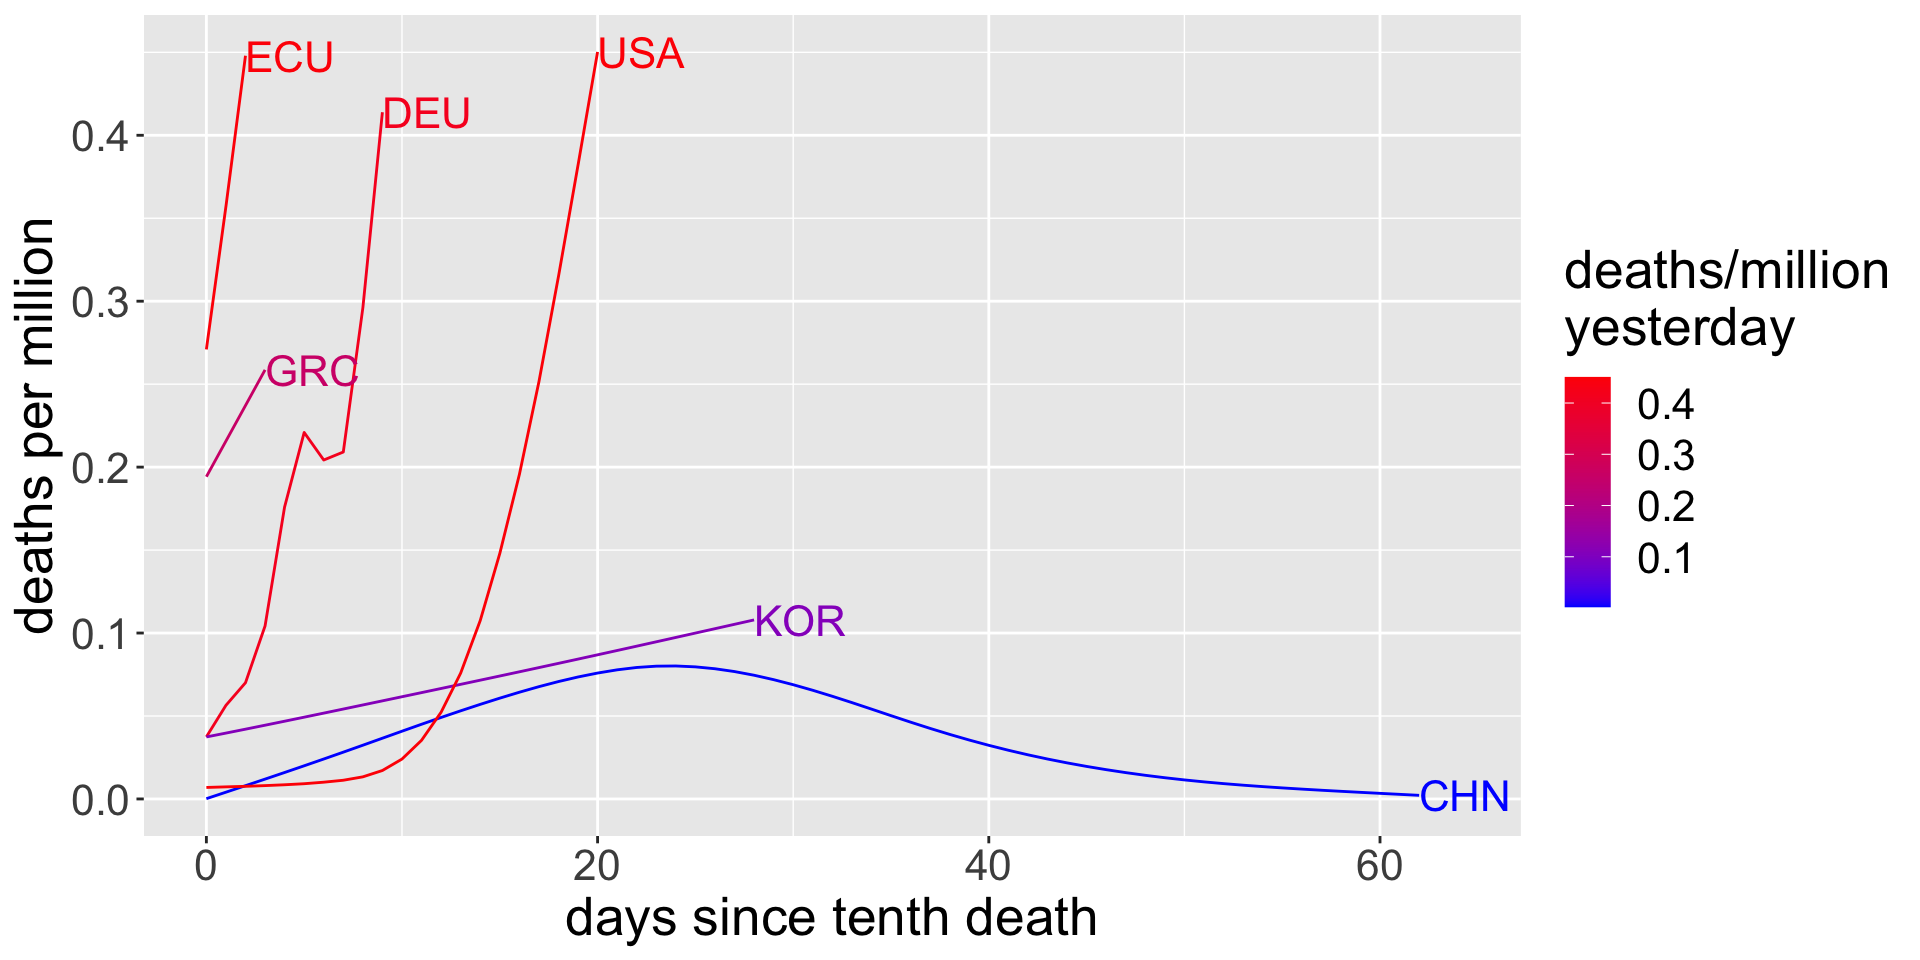
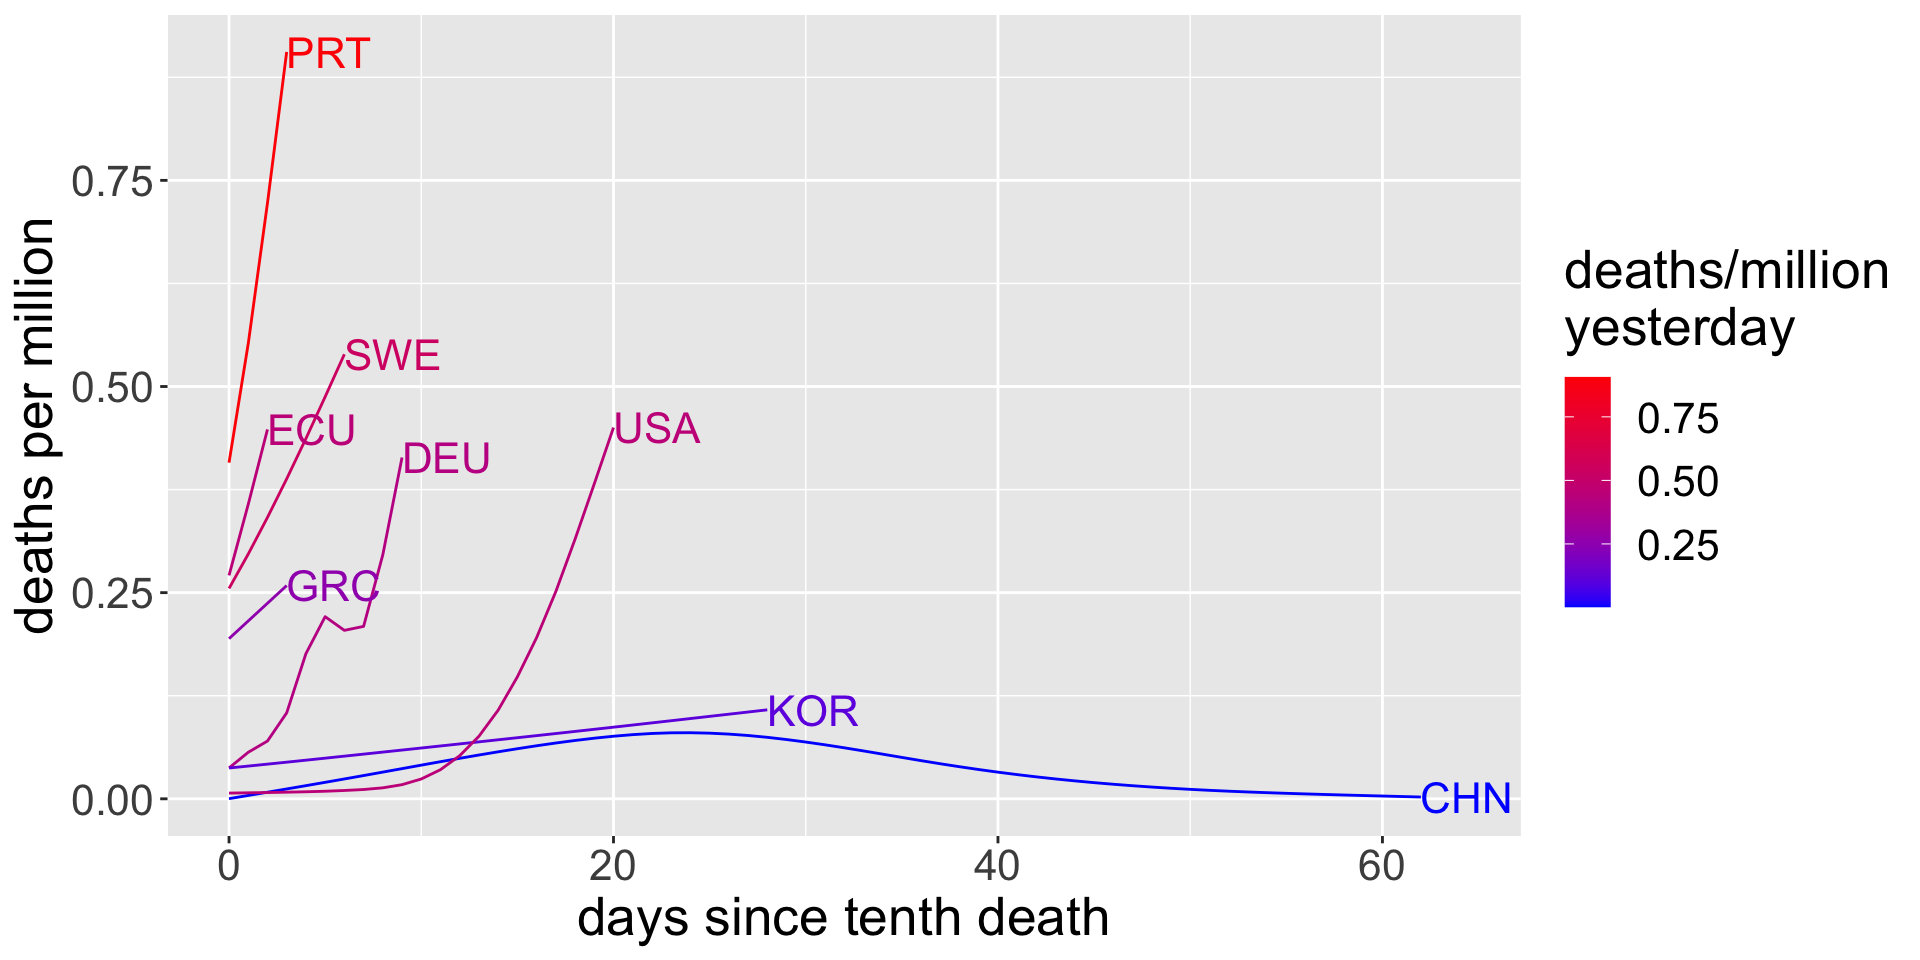
Update commentary.

diff --git a/public/2020/03/25/covid19deathspercapita/index.html b/public/2020/03/25/covid19deathspercapita/index.html
@@ -241,7 +241,7 @@
   
   <span class="middot-divider"></span>
   <span class="article-reading-time">
-    7 min read
+    8 min read
   </span>
   
 
@@ -319,6 +319,10 @@
 <p>First of all, we should be using per capita statistics. For example, 100,000 cases in China vs 100,000 cases in Ireland would be very different things, because of what they imply for concentration of cases. Per capita (assuming a billion people in China and 5 million in Ireland), this would mean 1% of people in Ireland have the disease compared to 0.01% of people in China: 1 in 100 vs 1 in 10,000. Of course, just using per capita by country, you miss a lot too. A particularly high concentration of cases in Wuhan is not the same as a more even spread of cases throughout China. You can fix this by dividing by province or county (if you have that level of granularity in your data); I do this by state for the US. I’m going to use per million people instead of per capita, because it’s a bit easier to think about.</p>
 <p>Second, reported deaths from the virus are more reliable than confirmed cases. That’s because the more ill you are, the more likely you are to get a test. The number of people <em>reported</em> to have died of COVID-19 infection will be closer to the true number of people who died of COVID-19 than the number of people <em>reported</em> to be infected will be to the true number of infected individuals.</p>
 <p>For timelining, I’ll use days since the tenth confirmed death from COVID-19 in a particular country, just like the <em>Financial Times</em> article.</p>
+<div id="deaths-per-capita-will-lag-other-measures" class="section level2">
+<h2>Deaths per capita will lag other measures</h2>
+<p>I don’t mean to say that deaths per capita is the only useful thing. It actually lags other measures (in particular the number of infected individuals) by a few days because the disease does not kill quickly. In particular, if a countries rate of testing is steady or increasing but the absolute number of people testing positive per day is decreasing, that’s a great sign and a sign that you’ll see sooner than a drop in deaths.</p>
+</div>
 </div>
 <div id="data-source-preparation-and-limitations" class="section level1">
 <h1>Data source, preparation and limitations</h1>
@@ -338,23 +342,24 @@
 <li>We can see that <strong>Spain</strong> and <strong>Italy</strong> are in a really bad way and still showing exponential growth in the number of deaths. This does not bode well for them. Spain looks to be in worse shape than Italy. 17 days after its tenth death, it’s up to 11 deaths per million that day, whereas Italy was on 4 deaths per million on its equivalent day. I am very, very worried about Spain.</li>
 <li><strong>The Netherlands</strong> curve suggests it won’t be as bad as Spain but might be as bad as Italy, though they have time to flatten it before their health system becomes overwhelmed.</li>
 </ul>
-<p>The other countries are a bit bunched, so next I’ll limit the plot to countries with fewer than 3 deaths per million yesterday.</p>
+<p>The other countries are a bit bunched, so next I’ll limit the plot to countries with fewer than 5 deaths per million yesterday.</p>
 </div>
-<div id="countries-with-fewer-than-3-deaths-per-million-yesterday" class="section level2">
-<h2>Countries with fewer than 3 deaths per million yesterday</h2>
-<p><img src="/post/2020-03-21-covid19deaths_files/figure-html/lt3-deaths-per-mil-1.png" width="960" /></p>
+<div id="countries-with-fewer-than-5-deaths-per-million-yesterday" class="section level2">
+<h2>Countries with fewer than 5 deaths per million yesterday</h2>
+<p><img src="/post/2020-03-21-covid19deaths_files/figure-html/lt5-deaths-per-mil-1.png" width="960" /></p>
 <ul>
-<li><strong>Belgium</strong> and <strong>The Netherlands</strong> are growing at alarming rates and are currently near or above 2 deaths per million per day. They would be doing well not to breach 10 deaths per million per day soon.</li>
-<li>Interestingly, <strong>France</strong> and <strong>Iran</strong> look to be turning the corner and lowering their fatalities. We’ll need another week of data to see if they can sustain this.</li>
+<li><strong>Belgium</strong> and <strong>The Netherlands</strong> are growing at alarming rates and are currently heading for 3 deaths per million per day. They would be doing well not to breach 10 deaths per million per day soon.</li>
+<li><strong>France</strong>’s data is weirdly oscillating but they are currently showing a stark increase in deaths per million per day.</li>
+<li>Interestingly, <strong>Iran</strong> look to be turning the corner and lowering their fatalities. We’ll need another week of data to see if they can sustain this.</li>
 <li><strong>Great Britain</strong> looks to be faring better than Belgium and The Netherlands, but could yet end up worse than Iran.</li>
 </ul>
 </div>
-<div id="countries-with-less-than-0.5-deaths-per-million-yesterday" class="section level2">
-<h2>Countries with less than 0.5 deaths per million yesterday</h2>
+<div id="countries-with-less-than-1-death-per-million-yesterday" class="section level2">
+<h2>Countries with less than 1 death per million yesterday</h2>
 <p><img src="/post/2020-03-21-covid19deaths_files/figure-html/lt1-death-per-mil-1.png" width="960" /></p>
 <ul>
-<li>For <strong>Portugal</strong>, <strong>Sweden</strong> and <strong>Greece</strong>, it’s too early to tell, though the upward trajectories are cause for great concern.</li>
-<li><strong>Germany</strong> appears to be tackling the disease early and very well. They have more hospital beds per capita than any other country in the world, so kudos to them and I hope their success continues.</li>
+<li>For <strong>Ecuador</strong>, <strong>Portugal</strong>, <strong>Sweden</strong> and <strong>Greece</strong>, it’s too early to tell, though the upward trajectories are cause for great concern.</li>
+<li><strong>Germany</strong> appeared to be tackling the disease well earlier in the week, but their deaths are increasing again now.</li>
 <li>The <strong>USA</strong> curve looks pretty ominous here. They have 3 main states (California, New York and Washington) driving most of their cases and deaths. See below for a breakdown of the US by states.</li>
 <li><strong>China</strong> is the only country which can definitively be said to have beaten their outbreak. They deserve enormous credit for their (post cover-up) response, and a lot can be learned from what they did. Of course, the number of cases there could rise again, but they know what to do if that happens.</li>
 <li><strong>South Korea</strong> has managed to keep its death numbers in a linear regime (growing at constant number of people dying every day) or perhaps slightly better. This is also a great achievement, given how nearly every other country is displaying exponential growth. Still, they need to improve further. More people died there yesterday than the day before; that needs to change.</li>
@@ -366,10 +371,10 @@
 <p>I’m going to use the same limitations for the US state data except that I’ll allow populations over 7.5 million, so that we can see Washington state.</p>
 <p><img src="/post/2020-03-21-covid19deaths_files/figure-html/us-plot-1.png" width="960" /></p>
 <ul>
-<li>For <strong>Ohio</strong>, <strong>Virginia</strong> and <strong>Michigan</strong>, it’s too early to say.</li>
+<li>For <strong>Ohio</strong>, <strong>Virginia</strong>, <strong>Pennsylvania</strong> and <strong>Michigan</strong>, it’s too early to say.</li>
 <li><strong>Washington</strong> state is at 14 deaths per million 13 days after its tenth death. At this point, Spain was at 6 deaths per million. This is absolutely dire. One bright light for Washington is that they have avoided exponential growth in the death rate, but the linear growth they have is still a massive problem.</li>
-<li><strong>New York</strong> is at 10 deaths per million 8 days after its tenth death. At this point, Spain was at 2 deaths per million. New York looks like it will get worse than Washington.</li>
-<li><strong>New York</strong> is at 5 deaths per million 7 days after its tenth death; better than New York but not good at all. At this point, Spain was at 1 deaths per million.</li>
+<li><strong>New York</strong> is at 10 deaths per million 8 days after its tenth death. At this point, Spain was at 2 deaths per million. New York looks like it will get much worse than Washington.</li>
+<li><strong>New Jersey</strong> is at 5 deaths per million 7 days after its tenth death; better than New York but not good at all. At this point, Spain was at 1 deaths per million.</li>
 <li><strong>Georgia</strong> and <strong>Illinois</strong> are near where New York was at equivalent stages, but with flatter trajectories. But New York is a low bar. To be barely better than New York is to be headed for disaster.</li>
 <li>10 days after its tenth death, <strong>California</strong> is at approximately 10 deaths per million. This is similar to where Italy was at this stage, but California’s curve is flatter than Italy’s, so they are on course to avoid the explosion in cases that happened there.</li>
 <li><strong>Texas</strong> and <strong>Florida</strong> look very like California with a few days’ lag.</li>

diff --git a/content/post/2020-03-21-covid19deaths.html b/content/post/2020-03-21-covid19deaths.html
@@ -20,6 +20,10 @@ tags: ["COVID-19", "coronavirus"]
 <p>First of all, we should be using per capita statistics. For example, 100,000 cases in China vs 100,000 cases in Ireland would be very different things, because of what they imply for concentration of cases. Per capita (assuming a billion people in China and 5 million in Ireland), this would mean 1% of people in Ireland have the disease compared to 0.01% of people in China: 1 in 100 vs 1 in 10,000. Of course, just using per capita by country, you miss a lot too. A particularly high concentration of cases in Wuhan is not the same as a more even spread of cases throughout China. You can fix this by dividing by province or county (if you have that level of granularity in your data); I do this by state for the US. I’m going to use per million people instead of per capita, because it’s a bit easier to think about.</p>
 <p>Second, reported deaths from the virus are more reliable than confirmed cases. That’s because the more ill you are, the more likely you are to get a test. The number of people <em>reported</em> to have died of COVID-19 infection will be closer to the true number of people who died of COVID-19 than the number of people <em>reported</em> to be infected will be to the true number of infected individuals.</p>
 <p>For timelining, I’ll use days since the tenth confirmed death from COVID-19 in a particular country, just like the <em>Financial Times</em> article.</p>
+<div id="deaths-per-capita-will-lag-other-measures" class="section level2">
+<h2>Deaths per capita will lag other measures</h2>
+<p>I don’t mean to say that deaths per capita is the only useful thing. It actually lags other measures (in particular the number of infected individuals) by a few days because the disease does not kill quickly. In particular, if a countries rate of testing is steady or increasing but the absolute number of people testing positive per day is decreasing, that’s a great sign and a sign that you’ll see sooner than a drop in deaths.</p>
+</div>
 </div>
 <div id="data-source-preparation-and-limitations" class="section level1">
 <h1>Data source, preparation and limitations</h1>
@@ -39,23 +43,24 @@ tags: ["COVID-19", "coronavirus"]
 <li>We can see that <strong>Spain</strong> and <strong>Italy</strong> are in a really bad way and still showing exponential growth in the number of deaths. This does not bode well for them. Spain looks to be in worse shape than Italy. 17 days after its tenth death, it’s up to 11 deaths per million that day, whereas Italy was on 4 deaths per million on its equivalent day. I am very, very worried about Spain.</li>
 <li><strong>The Netherlands</strong> curve suggests it won’t be as bad as Spain but might be as bad as Italy, though they have time to flatten it before their health system becomes overwhelmed.</li>
 </ul>
-<p>The other countries are a bit bunched, so next I’ll limit the plot to countries with fewer than 3 deaths per million yesterday.</p>
+<p>The other countries are a bit bunched, so next I’ll limit the plot to countries with fewer than 5 deaths per million yesterday.</p>
 </div>
-<div id="countries-with-fewer-than-3-deaths-per-million-yesterday" class="section level2">
-<h2>Countries with fewer than 3 deaths per million yesterday</h2>
-<p><img src="/post/2020-03-21-covid19deaths_files/figure-html/lt3-deaths-per-mil-1.png" width="960" /></p>
+<div id="countries-with-fewer-than-5-deaths-per-million-yesterday" class="section level2">
+<h2>Countries with fewer than 5 deaths per million yesterday</h2>
+<p><img src="/post/2020-03-21-covid19deaths_files/figure-html/lt5-deaths-per-mil-1.png" width="960" /></p>
 <ul>
-<li><strong>Belgium</strong> and <strong>The Netherlands</strong> are growing at alarming rates and are currently near or above 2 deaths per million per day. They would be doing well not to breach 10 deaths per million per day soon.</li>
-<li>Interestingly, <strong>France</strong> and <strong>Iran</strong> look to be turning the corner and lowering their fatalities. We’ll need another week of data to see if they can sustain this.</li>
+<li><strong>Belgium</strong> and <strong>The Netherlands</strong> are growing at alarming rates and are currently heading for 3 deaths per million per day. They would be doing well not to breach 10 deaths per million per day soon.</li>
+<li><strong>France</strong>’s data is weirdly oscillating but they are currently showing a stark increase in deaths per million per day.</li>
+<li>Interestingly, <strong>Iran</strong> look to be turning the corner and lowering their fatalities. We’ll need another week of data to see if they can sustain this.</li>
 <li><strong>Great Britain</strong> looks to be faring better than Belgium and The Netherlands, but could yet end up worse than Iran.</li>
 </ul>
 </div>
-<div id="countries-with-less-than-0.5-deaths-per-million-yesterday" class="section level2">
-<h2>Countries with less than 0.5 deaths per million yesterday</h2>
+<div id="countries-with-less-than-1-death-per-million-yesterday" class="section level2">
+<h2>Countries with less than 1 death per million yesterday</h2>
 <p><img src="/post/2020-03-21-covid19deaths_files/figure-html/lt1-death-per-mil-1.png" width="960" /></p>
 <ul>
-<li>For <strong>Portugal</strong>, <strong>Sweden</strong> and <strong>Greece</strong>, it’s too early to tell, though the upward trajectories are cause for great concern.</li>
-<li><strong>Germany</strong> appears to be tackling the disease early and very well. They have more hospital beds per capita than any other country in the world, so kudos to them and I hope their success continues.</li>
+<li>For <strong>Ecuador</strong>, <strong>Portugal</strong>, <strong>Sweden</strong> and <strong>Greece</strong>, it’s too early to tell, though the upward trajectories are cause for great concern.</li>
+<li><strong>Germany</strong> appeared to be tackling the disease well earlier in the week, but their deaths are increasing again now.</li>
 <li>The <strong>USA</strong> curve looks pretty ominous here. They have 3 main states (California, New York and Washington) driving most of their cases and deaths. See below for a breakdown of the US by states.</li>
 <li><strong>China</strong> is the only country which can definitively be said to have beaten their outbreak. They deserve enormous credit for their (post cover-up) response, and a lot can be learned from what they did. Of course, the number of cases there could rise again, but they know what to do if that happens.</li>
 <li><strong>South Korea</strong> has managed to keep its death numbers in a linear regime (growing at constant number of people dying every day) or perhaps slightly better. This is also a great achievement, given how nearly every other country is displaying exponential growth. Still, they need to improve further. More people died there yesterday than the day before; that needs to change.</li>
@@ -67,10 +72,10 @@ tags: ["COVID-19", "coronavirus"]
 <p>I’m going to use the same limitations for the US state data except that I’ll allow populations over 7.5 million, so that we can see Washington state.</p>
 <p><img src="/post/2020-03-21-covid19deaths_files/figure-html/us-plot-1.png" width="960" /></p>
 <ul>
-<li>For <strong>Ohio</strong>, <strong>Virginia</strong> and <strong>Michigan</strong>, it’s too early to say.</li>
+<li>For <strong>Ohio</strong>, <strong>Virginia</strong>, <strong>Pennsylvania</strong> and <strong>Michigan</strong>, it’s too early to say.</li>
 <li><strong>Washington</strong> state is at 14 deaths per million 13 days after its tenth death. At this point, Spain was at 6 deaths per million. This is absolutely dire. One bright light for Washington is that they have avoided exponential growth in the death rate, but the linear growth they have is still a massive problem.</li>
-<li><strong>New York</strong> is at 10 deaths per million 8 days after its tenth death. At this point, Spain was at 2 deaths per million. New York looks like it will get worse than Washington.</li>
-<li><strong>New York</strong> is at 5 deaths per million 7 days after its tenth death; better than New York but not good at all. At this point, Spain was at 1 deaths per million.</li>
+<li><strong>New York</strong> is at 10 deaths per million 8 days after its tenth death. At this point, Spain was at 2 deaths per million. New York looks like it will get much worse than Washington.</li>
+<li><strong>New Jersey</strong> is at 5 deaths per million 7 days after its tenth death; better than New York but not good at all. At this point, Spain was at 1 deaths per million.</li>
 <li><strong>Georgia</strong> and <strong>Illinois</strong> are near where New York was at equivalent stages, but with flatter trajectories. But New York is a low bar. To be barely better than New York is to be headed for disaster.</li>
 <li>10 days after its tenth death, <strong>California</strong> is at approximately 10 deaths per million. This is similar to where Italy was at this stage, but California’s curve is flatter than Italy’s, so they are on course to avoid the explosion in cases that happened there.</li>
 <li><strong>Texas</strong> and <strong>Florida</strong> look very like California with a few days’ lag.</li>

diff --git a/public/2018/09/30/rcsetseed/index.html b/public/2018/09/30/rcsetseed/index.html
@@ -332,7 +332,7 @@ rbernoulli(5, 0.7)
 #&gt; {
 #&gt;     stats::runif(n) &gt; (1 - p)
 #&gt; }
-#&gt; &lt;bytecode: 0x7ffa488c8a90&gt;
+#&gt; &lt;bytecode: 0x7fadd6243890&gt;
 #&gt; &lt;environment: namespace:purrr&gt;</code></pre>
 <p>Ah, it seems Hadley just wrapped <code>runif()</code>; hence, because <code>set.seed()</code> works with <code>runif()</code>, it works with his implementation of <code>purrr::rbernoulli()</code>.</p>
 </div>
@@ -405,8 +405,8 @@ rorybernoulli(6, 0.7)
 #&gt; # A tibble: 2 x 6
 #&gt;   expression                            min  median `itr/sec` mem_alloc `gc/sec`
 #&gt;   &lt;bch:expr&gt;                        &lt;bch:t&gt; &lt;bch:t&gt;     &lt;dbl&gt; &lt;bch:byt&gt;    &lt;dbl&gt;
-#&gt; 1 purrr::rbernoulli(1e+06, p = 0.5) 27.02ms 27.92ms      34.5   11.45MB    10.6 
-#&gt; 2 rorybernoulli(1e+06, p = 0.5)      8.41ms  8.86ms     110.     3.82MB     9.00</code></pre>
+#&gt; 1 purrr::rbernoulli(1e+06, p = 0.5) 26.65ms  27.4ms      35.5   11.45MB    10.1 
+#&gt; 2 rorybernoulli(1e+06, p = 0.5)      8.41ms  8.67ms     112.     3.82MB     8.97</code></pre>
 <p>Wow, <code>rorybernoulli()</code> is three times faster! I wasn’t expecting that. Perhaps it’s because there’s a quicker way of generating a Bernoulli random number than by going through a uniform random number (as <code>purrr::rbernoulli()</code> does). It’s also three times as efficient with memory; the memory and time improvements probably have the same underlying reason. The point of me writing this post was to share this <code>get_seed()</code> thing with people so that they can use <code>set.seed()</code> with <code>Rcpp</code> and the like; <code>purrr::rbernoulli()</code> was just a cool example of a non-base RNG that popped into my head. Maybe I should submit a pull request to <code>purrr</code>!</p>
 </div>
 

diff --git a/content/post/2018-09-30-rcsetseed.html b/content/post/2018-09-30-rcsetseed.html
@@ -26,7 +26,7 @@ rbernoulli(5, 0.7)
 #&gt; {
 #&gt;     stats::runif(n) &gt; (1 - p)
 #&gt; }
-#&gt; &lt;bytecode: 0x7ffa488c8a90&gt;
+#&gt; &lt;bytecode: 0x7fadd6243890&gt;
 #&gt; &lt;environment: namespace:purrr&gt;</code></pre>
 <p>Ah, it seems Hadley just wrapped <code>runif()</code>; hence, because <code>set.seed()</code> works with <code>runif()</code>, it works with his implementation of <code>purrr::rbernoulli()</code>.</p>
 </div>
@@ -99,7 +99,7 @@ rorybernoulli(6, 0.7)
 #&gt; # A tibble: 2 x 6
 #&gt;   expression                            min  median `itr/sec` mem_alloc `gc/sec`
 #&gt;   &lt;bch:expr&gt;                        &lt;bch:t&gt; &lt;bch:t&gt;     &lt;dbl&gt; &lt;bch:byt&gt;    &lt;dbl&gt;
-#&gt; 1 purrr::rbernoulli(1e+06, p = 0.5) 27.02ms 27.92ms      34.5   11.45MB    10.6 
-#&gt; 2 rorybernoulli(1e+06, p = 0.5)      8.41ms  8.86ms     110.     3.82MB     9.00</code></pre>
+#&gt; 1 purrr::rbernoulli(1e+06, p = 0.5) 26.65ms  27.4ms      35.5   11.45MB    10.1 
+#&gt; 2 rorybernoulli(1e+06, p = 0.5)      8.41ms  8.67ms     112.     3.82MB     8.97</code></pre>
 <p>Wow, <code>rorybernoulli()</code> is three times faster! I wasn’t expecting that. Perhaps it’s because there’s a quicker way of generating a Bernoulli random number than by going through a uniform random number (as <code>purrr::rbernoulli()</code> does). It’s also three times as efficient with memory; the memory and time improvements probably have the same underlying reason. The point of me writing this post was to share this <code>get_seed()</code> thing with people so that they can use <code>set.seed()</code> with <code>Rcpp</code> and the like; <code>purrr::rbernoulli()</code> was just a cool example of a non-base RNG that popped into my head. Maybe I should submit a pull request to <code>purrr</code>!</p>
 </div>

diff --git a/public/index.html b/public/index.html
@@ -487,7 +487,7 @@ Statistician.</p>
   
   <span class="middot-divider"></span>
   <span class="article-reading-time">
-    7 min read
+    8 min read
   </span>
   
 

diff --git a/public/post/index.html b/public/post/index.html
@@ -247,7 +247,7 @@
   
   <span class="middot-divider"></span>
   <span class="article-reading-time">
-    7 min read
+    8 min read
   </span>
   
 
